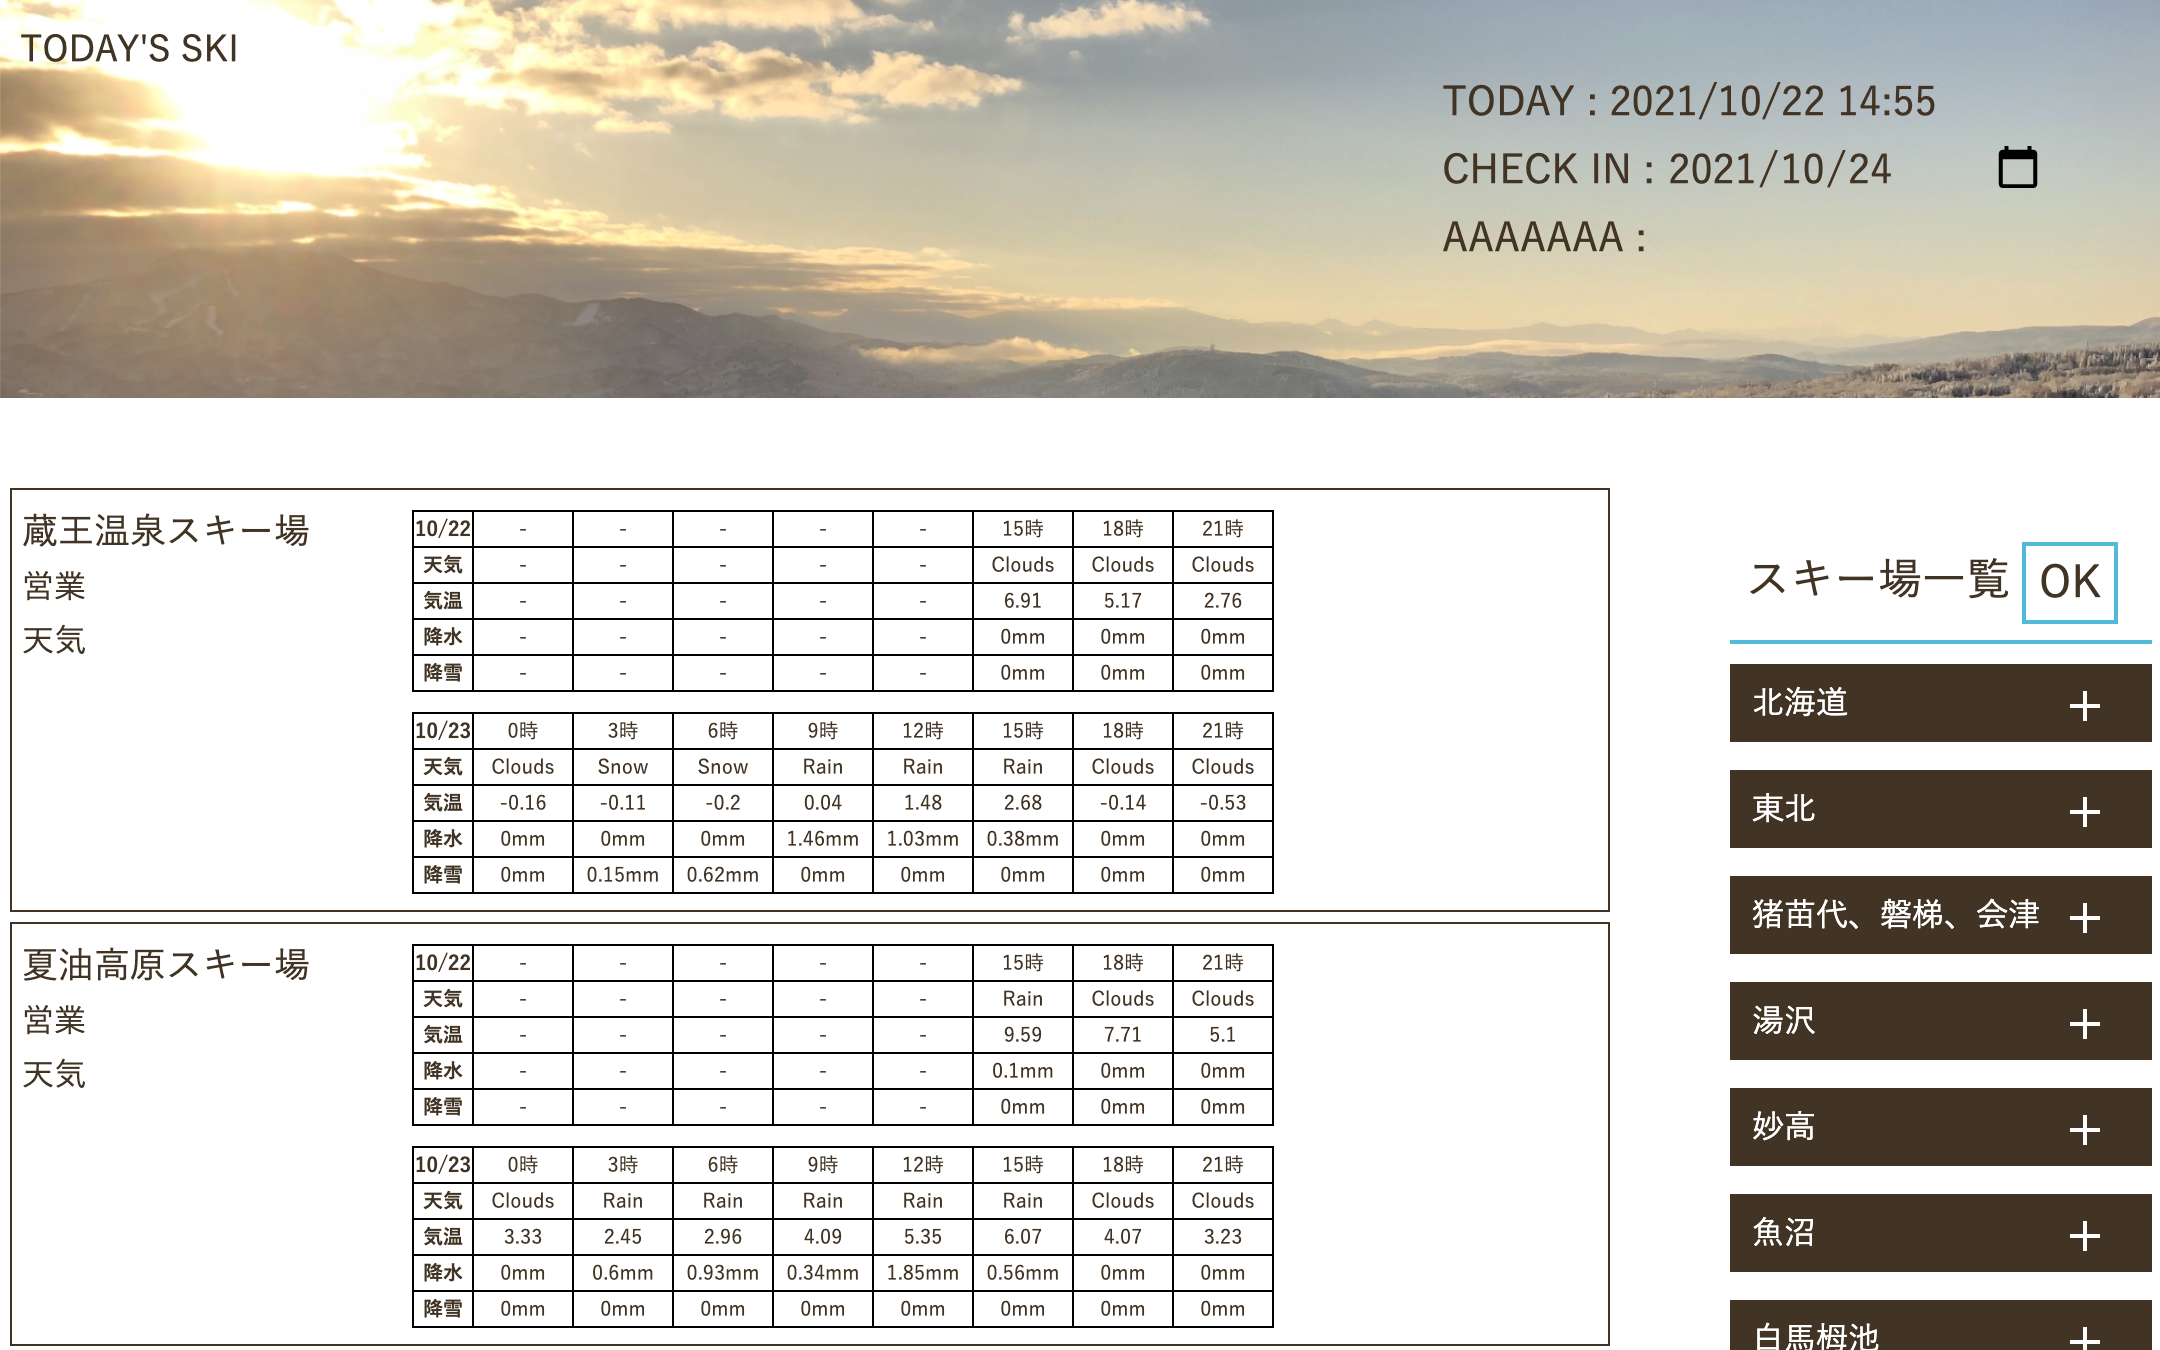
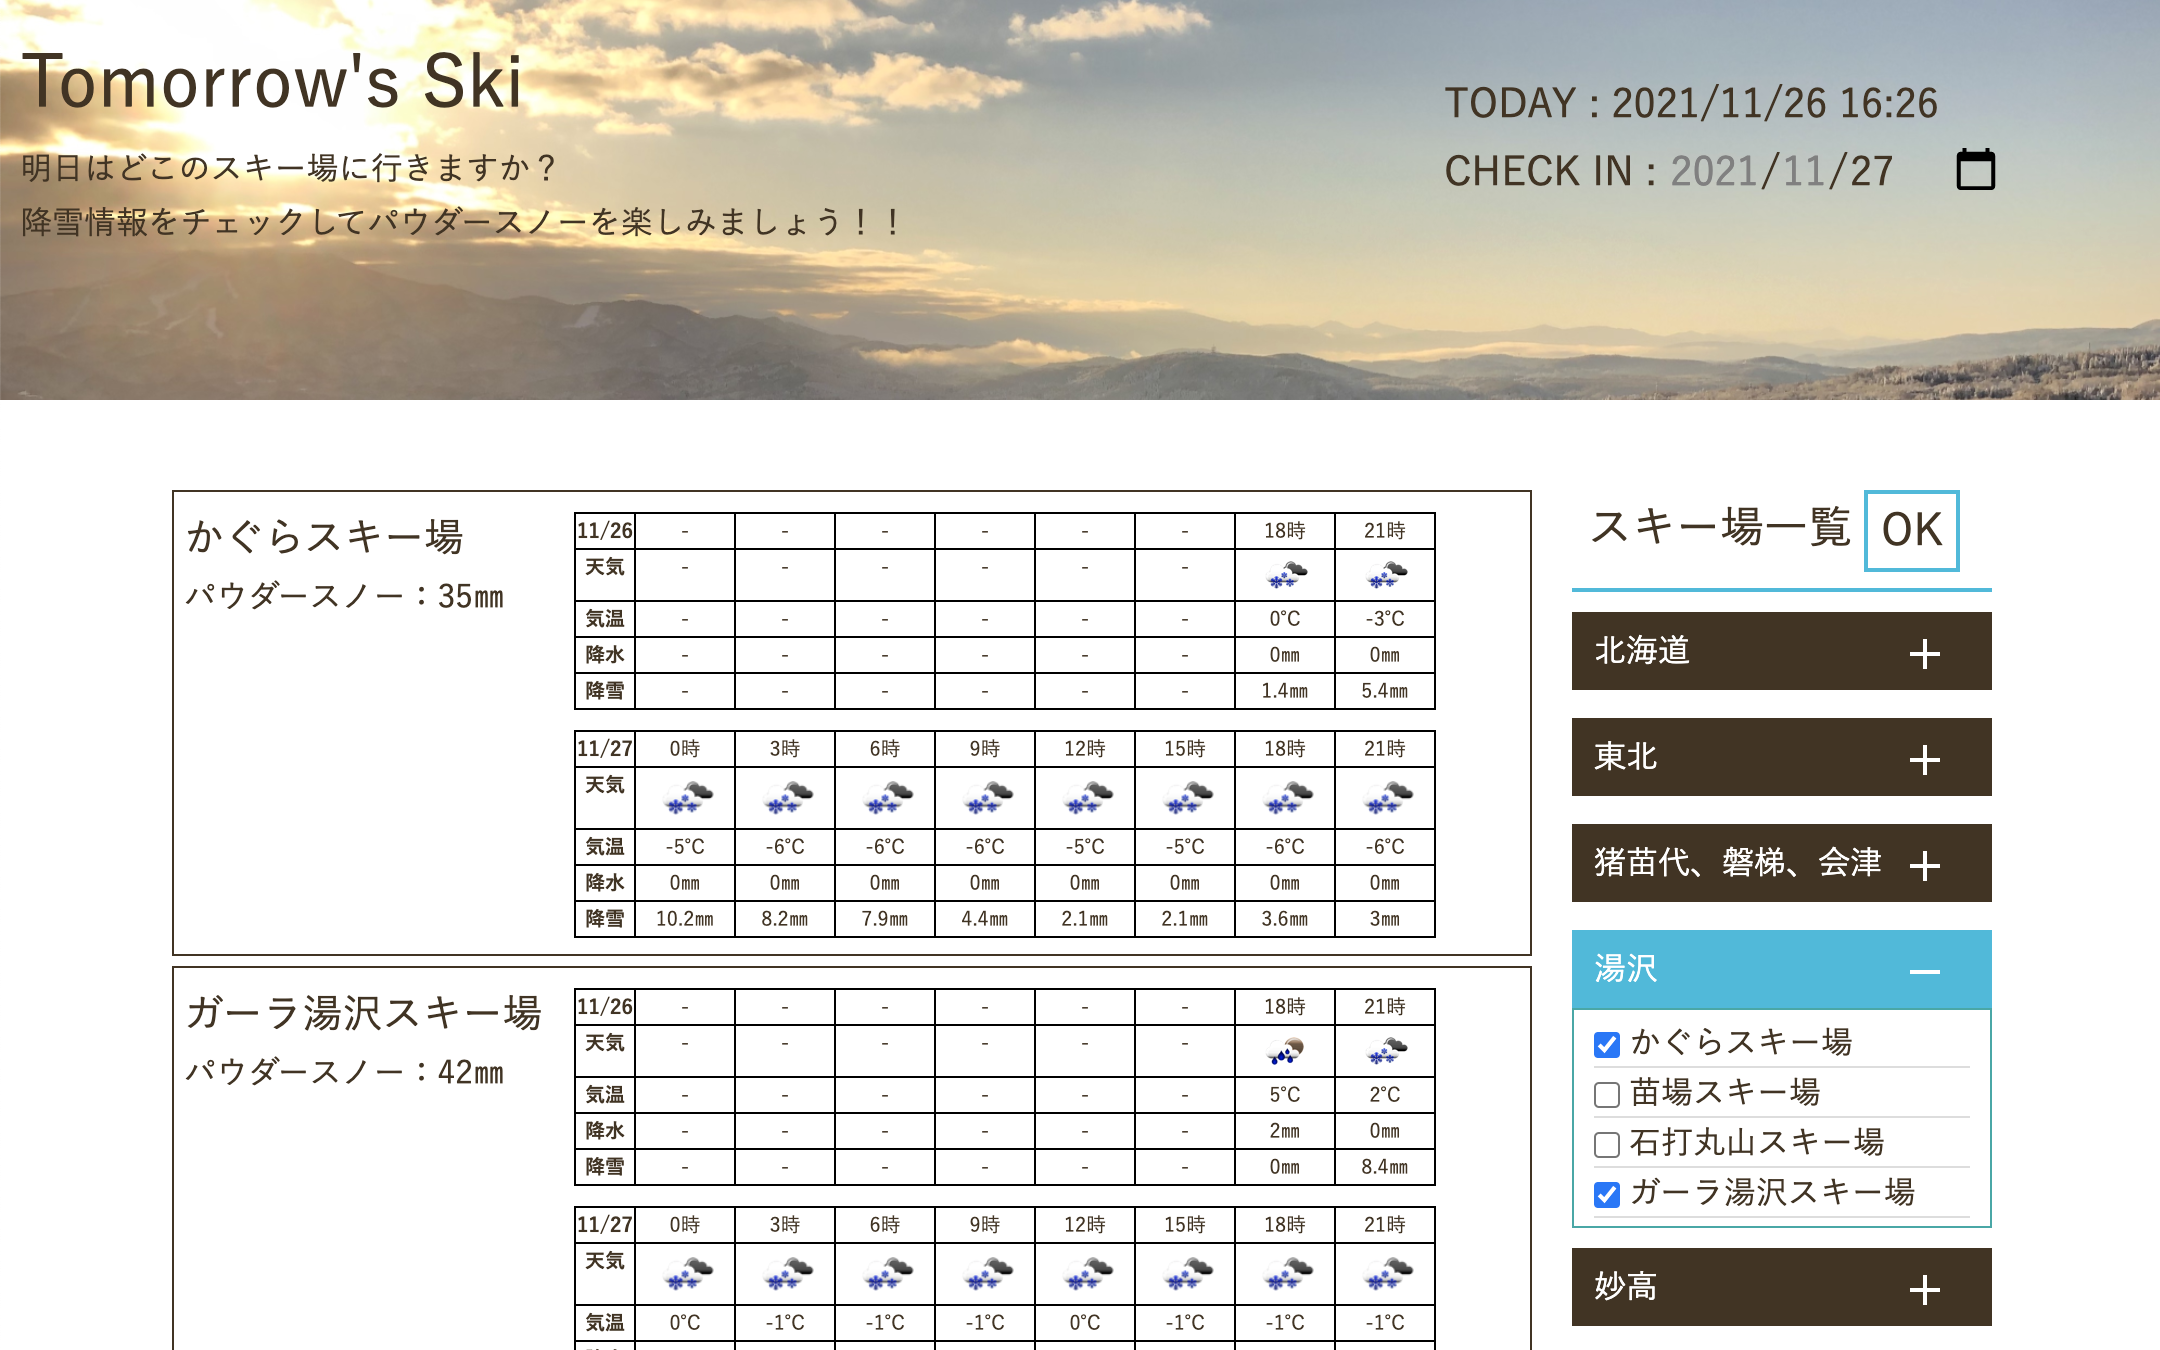
Tomorrow's Ski edit

diff --git a/src/views/Works.vue b/src/views/Works.vue
@@ -33,11 +33,11 @@ export default {
                 lang: "・使用言語など ： HTML / CSS / Vue.js / Javascript / bootstrapvue / firebase"
                 },
                 {
-                title: "Weather app",
+                title: "スキー場 Weather app",
                 img_src: "tenki_app",
-                href: "",
-                text: "天気情報から行きたいスキー場の選定に役立つWEB APPです。\nOpen Weather Mapの天気APIを使用して、位置座標からスキー場の天気予報を表示ます。\n全国のスキー場リストから、明日行きたいスキー場にチェックを入れると、向こう２日の天気情報を表示してくれます。",
-                lang: "・使用言語など ： HTML / CSS / Javascript / Bootstrap / OpenWeatherMap API"
+                href: "https://tomorrow-ski.web.app/",
+                text: "天気情報から行きたいスキー場の選定に役立つWEB APPです。\nOpen Weather Mapの天気APIを使用して、位置座標からスキー場の天気予報を表示ます。\nチェックイン日の指定し、リストから行きたいスキー場にチェックを入れ、OKを押すと、向こう２日の天気情報を表示してくれます。\nJavaScriptの学習の後に最初に手掛けたアプリで、ライブラリやフレームワークは使わずにJavaScriptのみで作成しました。",
+                lang: "・使用言語など ： HTML / CSS / Javascript / OpenWeatherMap API"
                 },
                 {
                 title: "TODO app",
